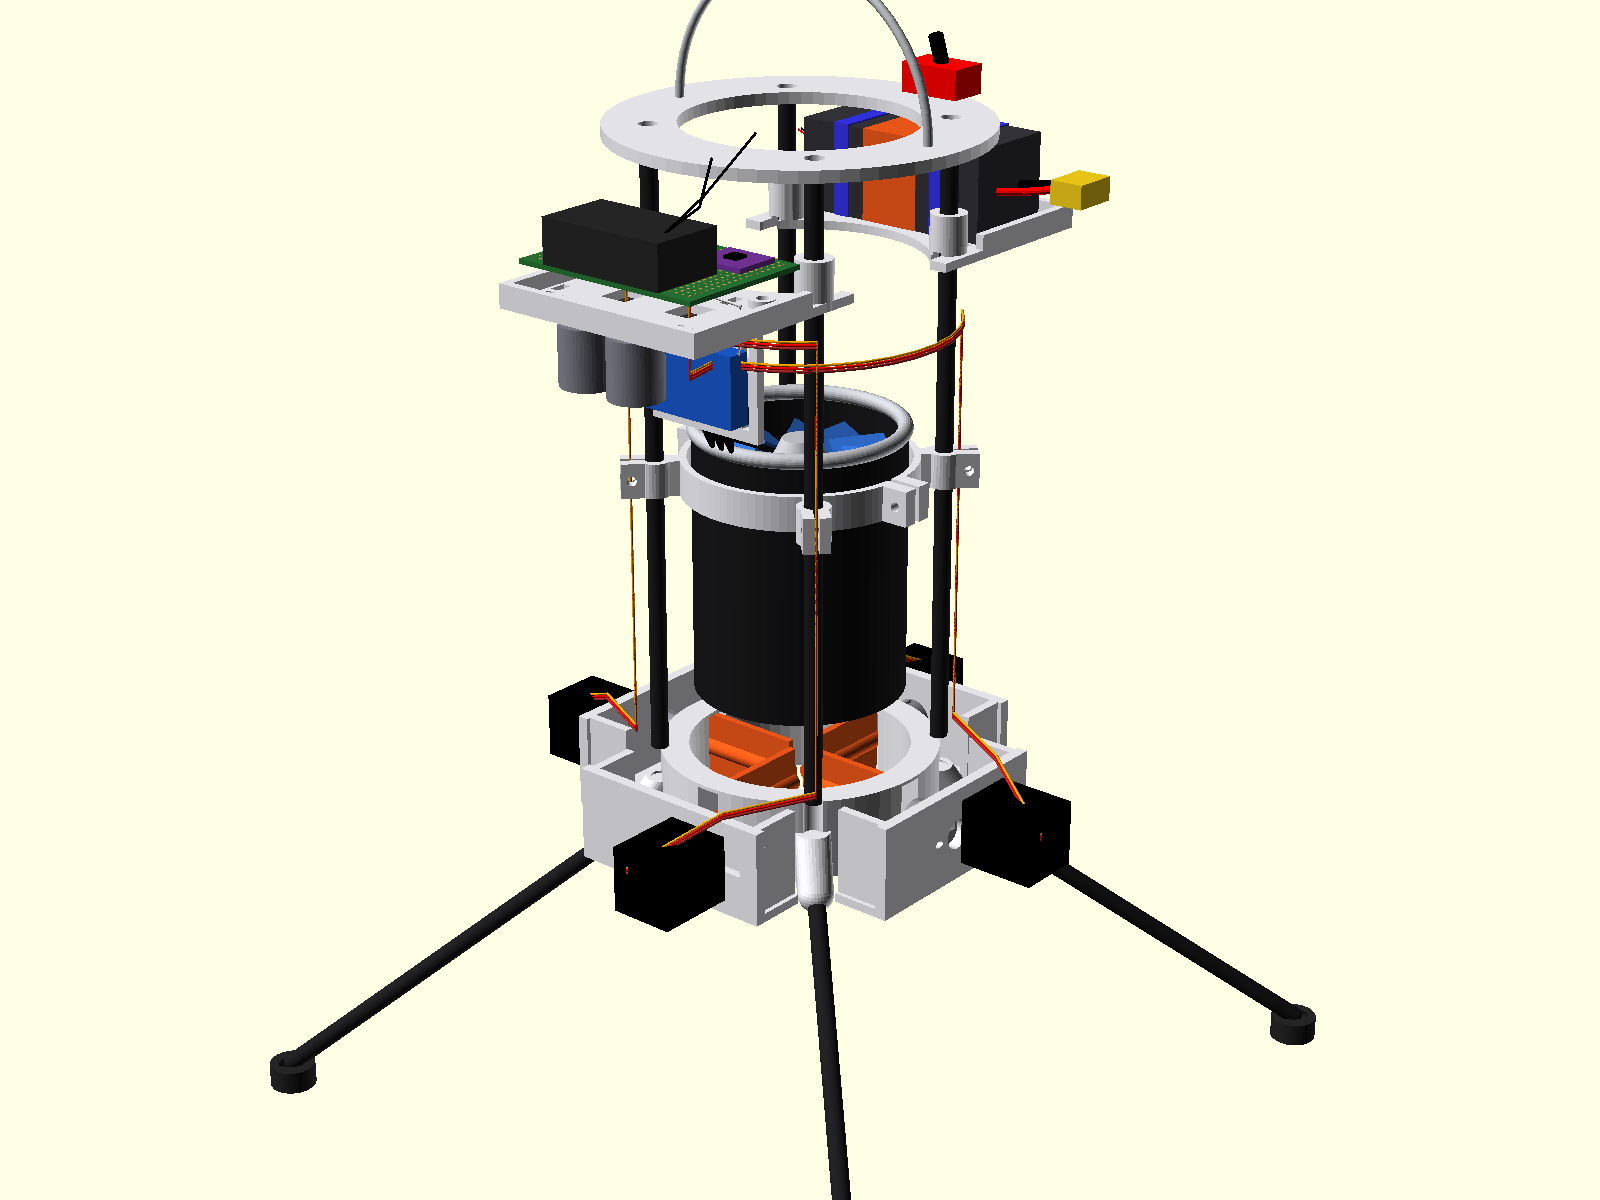
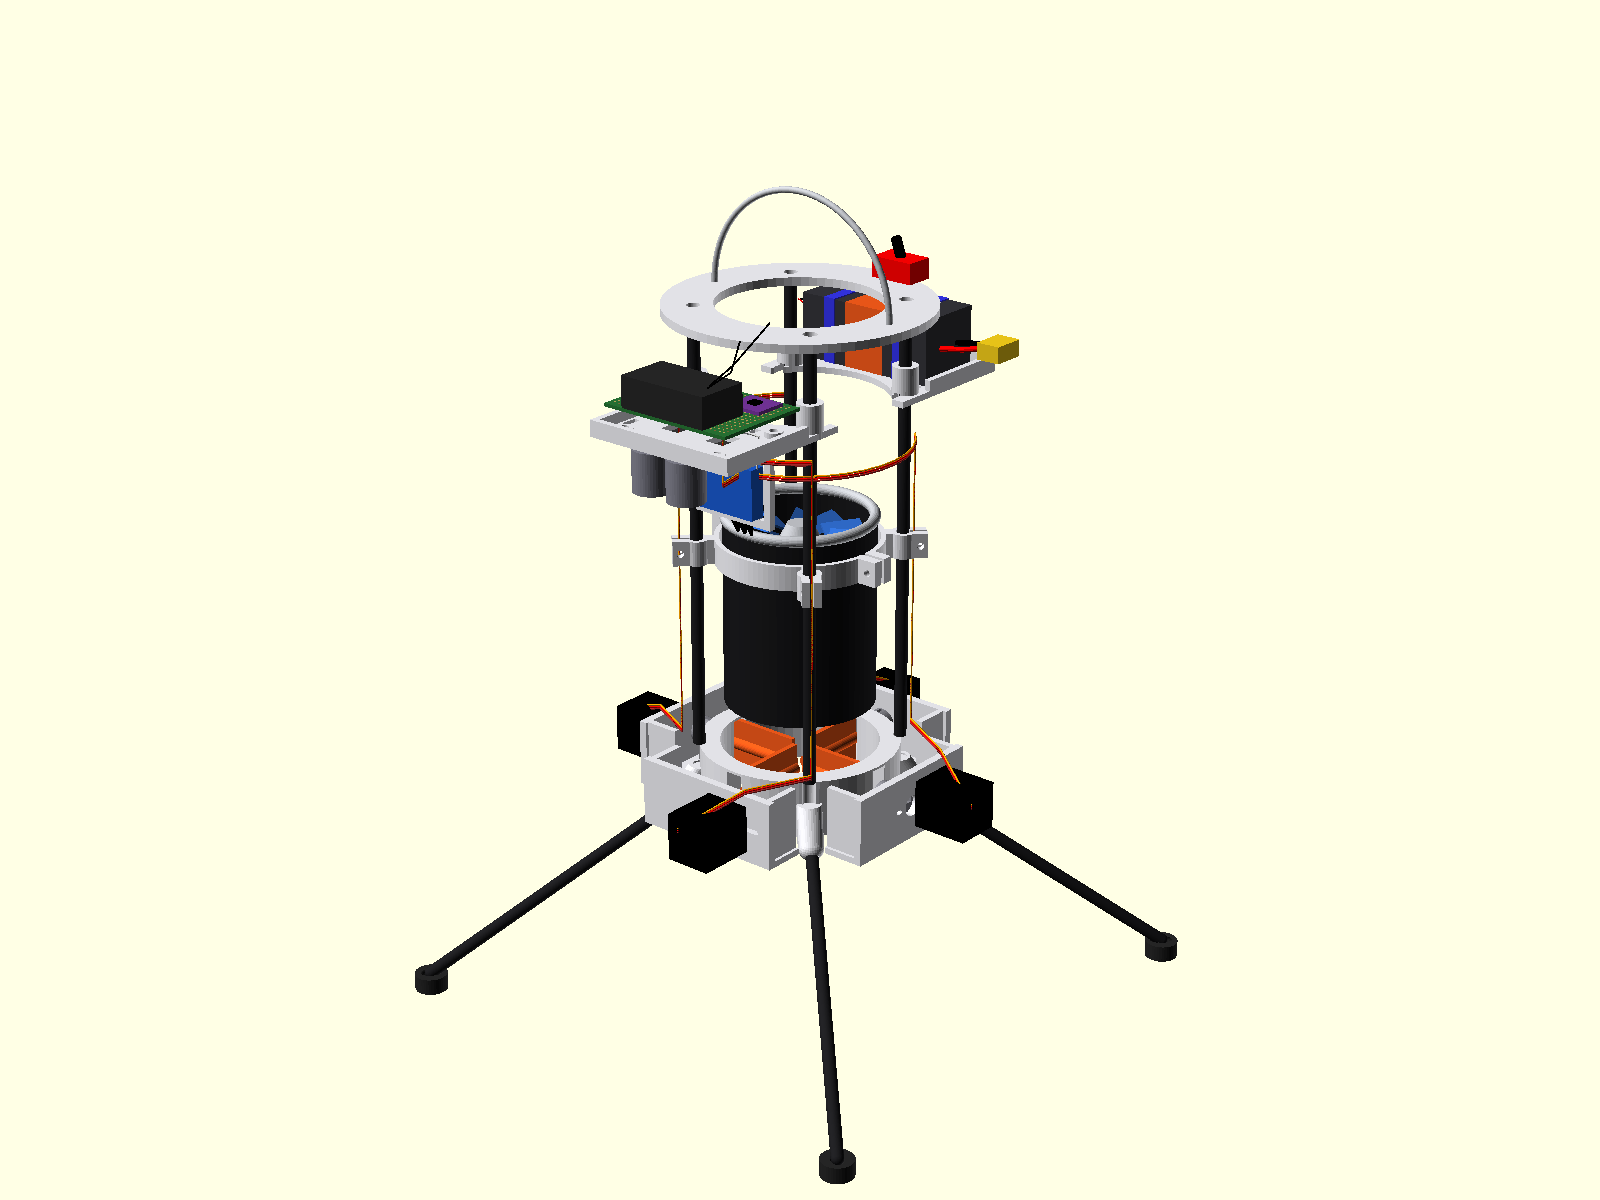
[cad] 렌더 전체 범위와 텍스트 해시 재현 방법 정리

diff --git a/cad/tools/slice_reference.py b/cad/tools/slice_reference.py
@@ -26,8 +26,11 @@ PART_ROWS = {
 }
 
 
-def sha256(path):
-    return hashlib.sha256(path.read_bytes()).hexdigest()
+def sha256(path, text=False):
+    data = path.read_bytes()
+    if text:
+        data = data.replace(b"\r\n", b"\n")
+    return hashlib.sha256(data).hexdigest()
 
 
 def main():
@@ -77,8 +80,9 @@ def main():
         writer = csv.DictWriter(f, fieldnames=fields)
         writer.writeheader()
         writer.writerows(rows)
-    report = dict(slicer=version_text, profile_sha256=sha256(PROFILE),
-                  source_mass_table_sha256=sha256(ROOT / "cad/cg/parts.csv"),
+    report = dict(slicer=version_text, profile_sha256=sha256(PROFILE, text=True),
+                  text_hash_newlines="LF",
+                  source_mass_table_sha256=sha256(ROOT / "cad/cg/parts.csv", text=True),
                   scope="Reference only. Input orientation retained; no support. G-code must not be printed.",
                   parts=result)
     (args.out / "slice-reference.json").write_text(json.dumps(report, indent=2, ensure_ascii=False) + "\n", encoding="utf-8")

diff --git a/cad/reports/2026-10-20/README.md b/cad/reports/2026-10-20/README.md
@@ -24,7 +24,7 @@ PrusaSlicer 2.9.6 공식 릴리스의 Windows 배포판으로 8개 부품군을 
 | 커플러 4개, 기본 규격만 | 9.28 |
 | 합계 | 279.75 |
 
-커플러 여유 규격을 중복 합산하지 않았다. EVA 발 범퍼와 구매품은 원본 질량표 가정을 유지했다. [slice-reference.json](slice-reference.json)에 버전·프로파일·입력 STL 해시와 슬라이서 경고를 보존했다. [parts-reference.csv](parts-reference.csv)는 이 질량만 대입한 독립 계산표다. 원본 `cad/cg/parts.csv`를 측정값인 것처럼 덮지 않는다.
+커플러 여유 규격을 중복 합산하지 않았다. EVA 발 범퍼와 구매품은 원본 질량표 가정을 유지했다. [slice-reference.json](slice-reference.json)에 버전·프로파일·입력 STL 해시와 슬라이서 경고를 보존했다. 프로파일·원본 질량표의 텍스트 해시는 줄바꿈을 LF로 통일해 계산하며 STL은 원본 바이트를 쓴다. [parts-reference.csv](parts-reference.csv)는 이 질량만 대입한 독립 계산표다. 원본 `cad/cg/parts.csv`를 측정값인 것처럼 덮지 않는다.
 
 | 시나리오 | 전체 질량 | CG x/y/z (mm) | 토크 팔 z+36 (mm) | 사양 추력 기준 TWR |
 |---|---:|---|---:|---:|
@@ -32,6 +32,8 @@ PrusaSlicer 2.9.6 공식 릴리스의 Windows 배포판으로 8개 부품군을 
 | 위 슬라이서 프로파일 | 935.14 g | +0.02 / -1.10 / 76.14 | 112.14 | 1.390 |
 
 정적 추력 12.75 N은 사양 가정이며 실측이 아니다. 슬라이서 시나리오에서도 CG z가 기존 목표 60–75 mm를 약 1.14 mm 벗어난다. 현재 sim의 l=104 mm를 새 값으로 자동 교체하지 않는다. 실제 질량·조립 위치 확인 뒤 #219와 #26에서 제어 상수와 트림량을 결정한다.
+
+목표 범위 밖일 때의 계산상 조정안: 다른 질량과 위치가 같다면 159.5 g 배터리 중심을 7 mm 내리면 CG z는 약 74.95 mm가 된다. 이는 배터리 선반의 높이를 분리 조정해야 하는 설계안이며 현재 CAD에는 적용하지 않았다. 실제 출력물 질량·배선·체결을 확인한 뒤 #219와 #26에서 선택하고 전체 간섭 검사를 다시 해야 한다. 지금 목표에 맞추려고 추정값을 실측값처럼 바꾸지 않는다.
 
 ### 재현
 

diff --git a/cad/README.md b/cad/README.md
@@ -61,7 +61,7 @@ export 완료됨, `print_parts/README.md` 참고).
 `cad/showcase.scad`는 프린트 부품에 구매품(EDF 본체, 배터리, Teensy·IMU 기판, ESC, 서보, 킬스위치)과 배선을 외형만 더한 발표용 장면이다. 프린트 대상이 아니다.
 
 ```bash
-openscad -o cad/renders/showcase.png --imgsize=1600,1200 --camera=600,-720,420,0,0,30 --projection=p cad/showcase.scad
+openscad -o cad/renders/showcase.png --imgsize=1600,1200 --camera=600,-720,420,0,0,30 --projection=p --viewall --autocenter cad/showcase.scad
 ```
 
 이 렌더에서 확인한 배선 지침:
